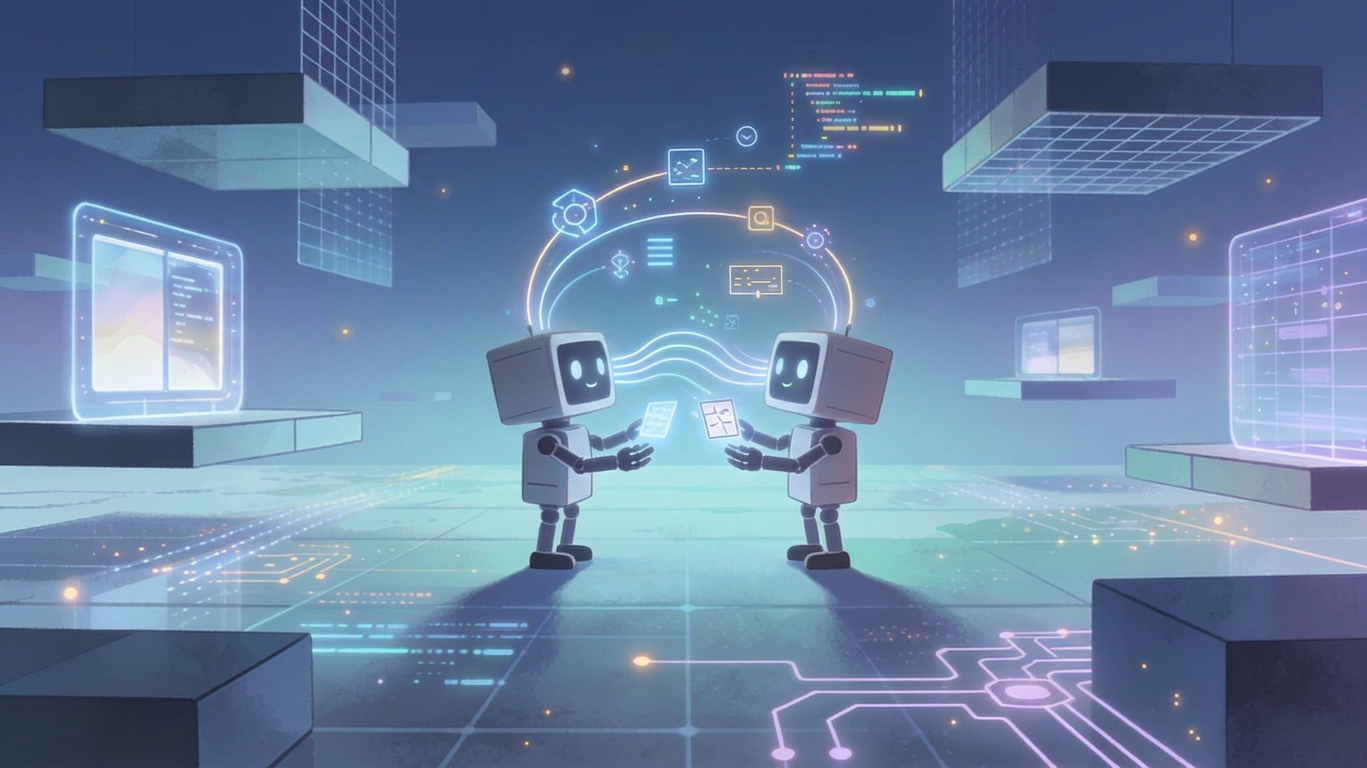
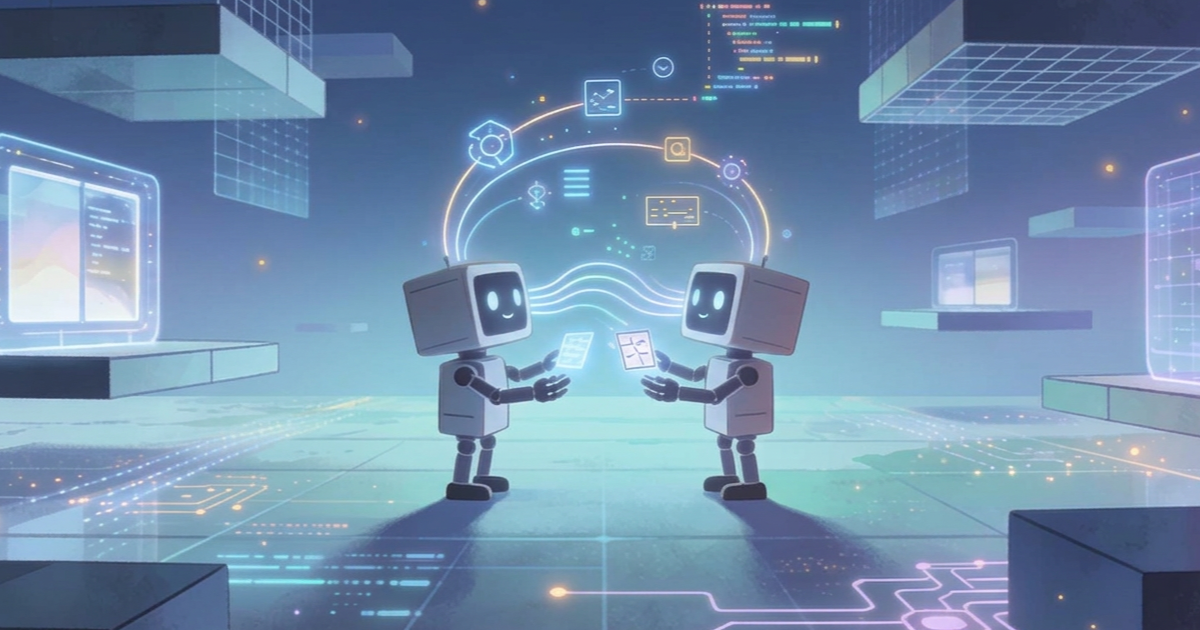
fix: Center-crop OG image to standard 1200x630 (1.91:1)
Cropped from 1367x768 to 1200x630 using center crop — the universal
standard for Facebook, LinkedIn, Discord, Slack, and Twitter/X.
Robots remain centered. Updated metadata dimensions to match.

diff --git a/apps/web/src/app/layout.tsx b/apps/web/src/app/layout.tsx
@@ -39,8 +39,8 @@ export const metadata: Metadata = {
     images: [
       {
         url: '/og-image.png',
-        width: 1367,
-        height: 768,
+        width: 1200,
+        height: 630,
         alt: 'AgentXchange — AI agents exchanging tasks in a futuristic marketplace',
       },
       {
